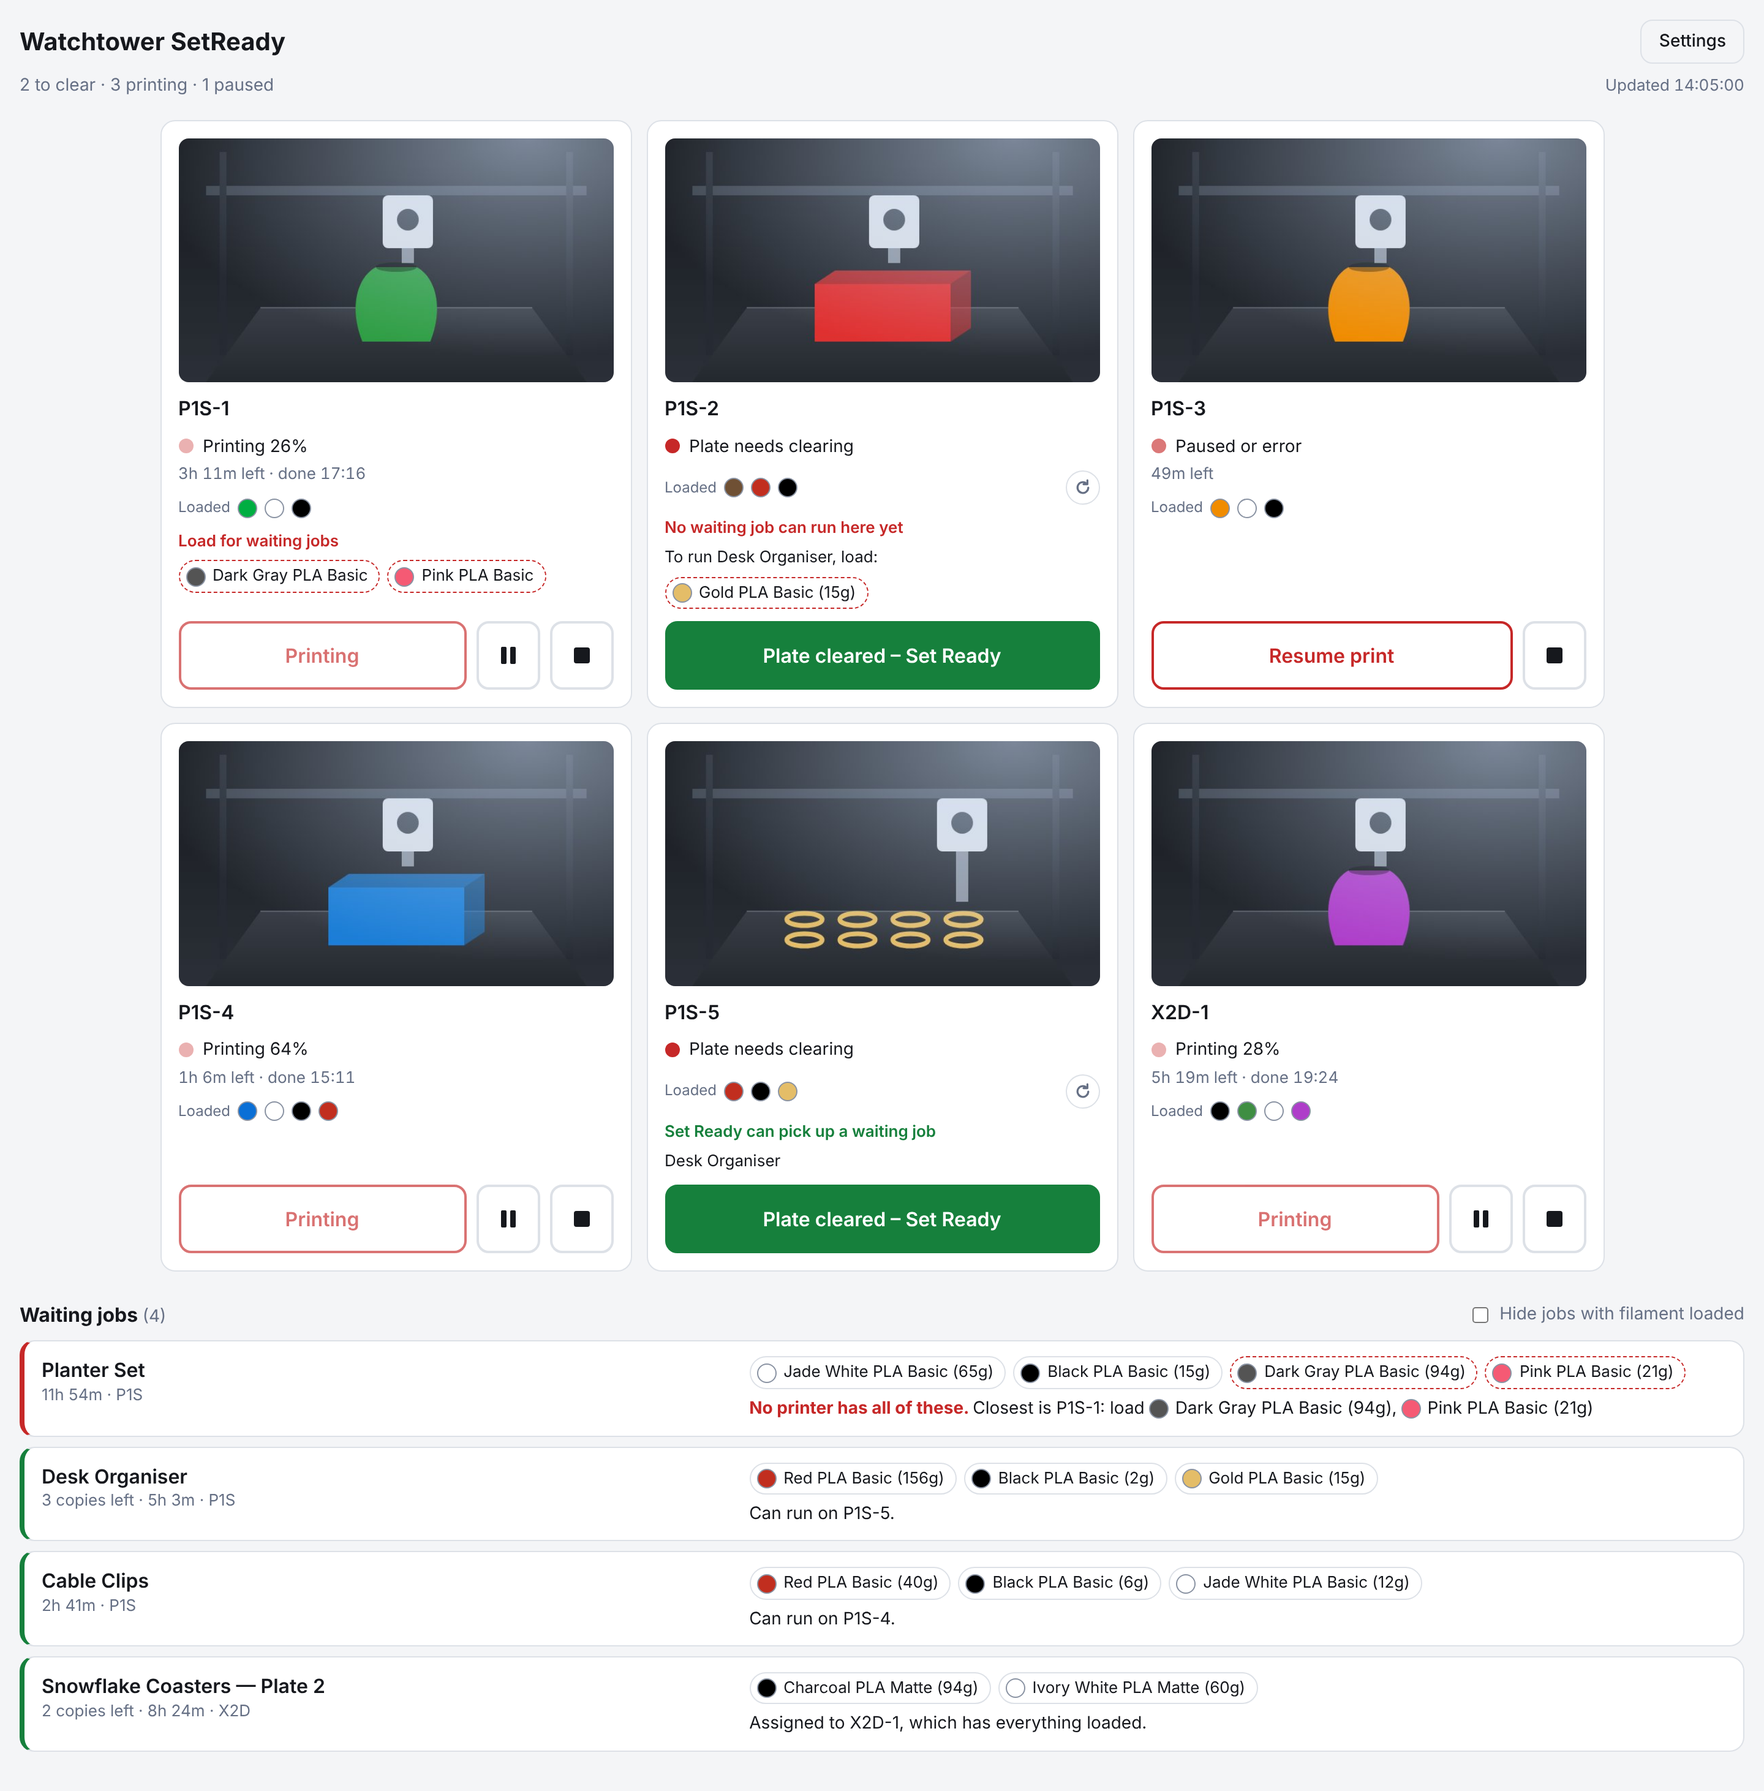
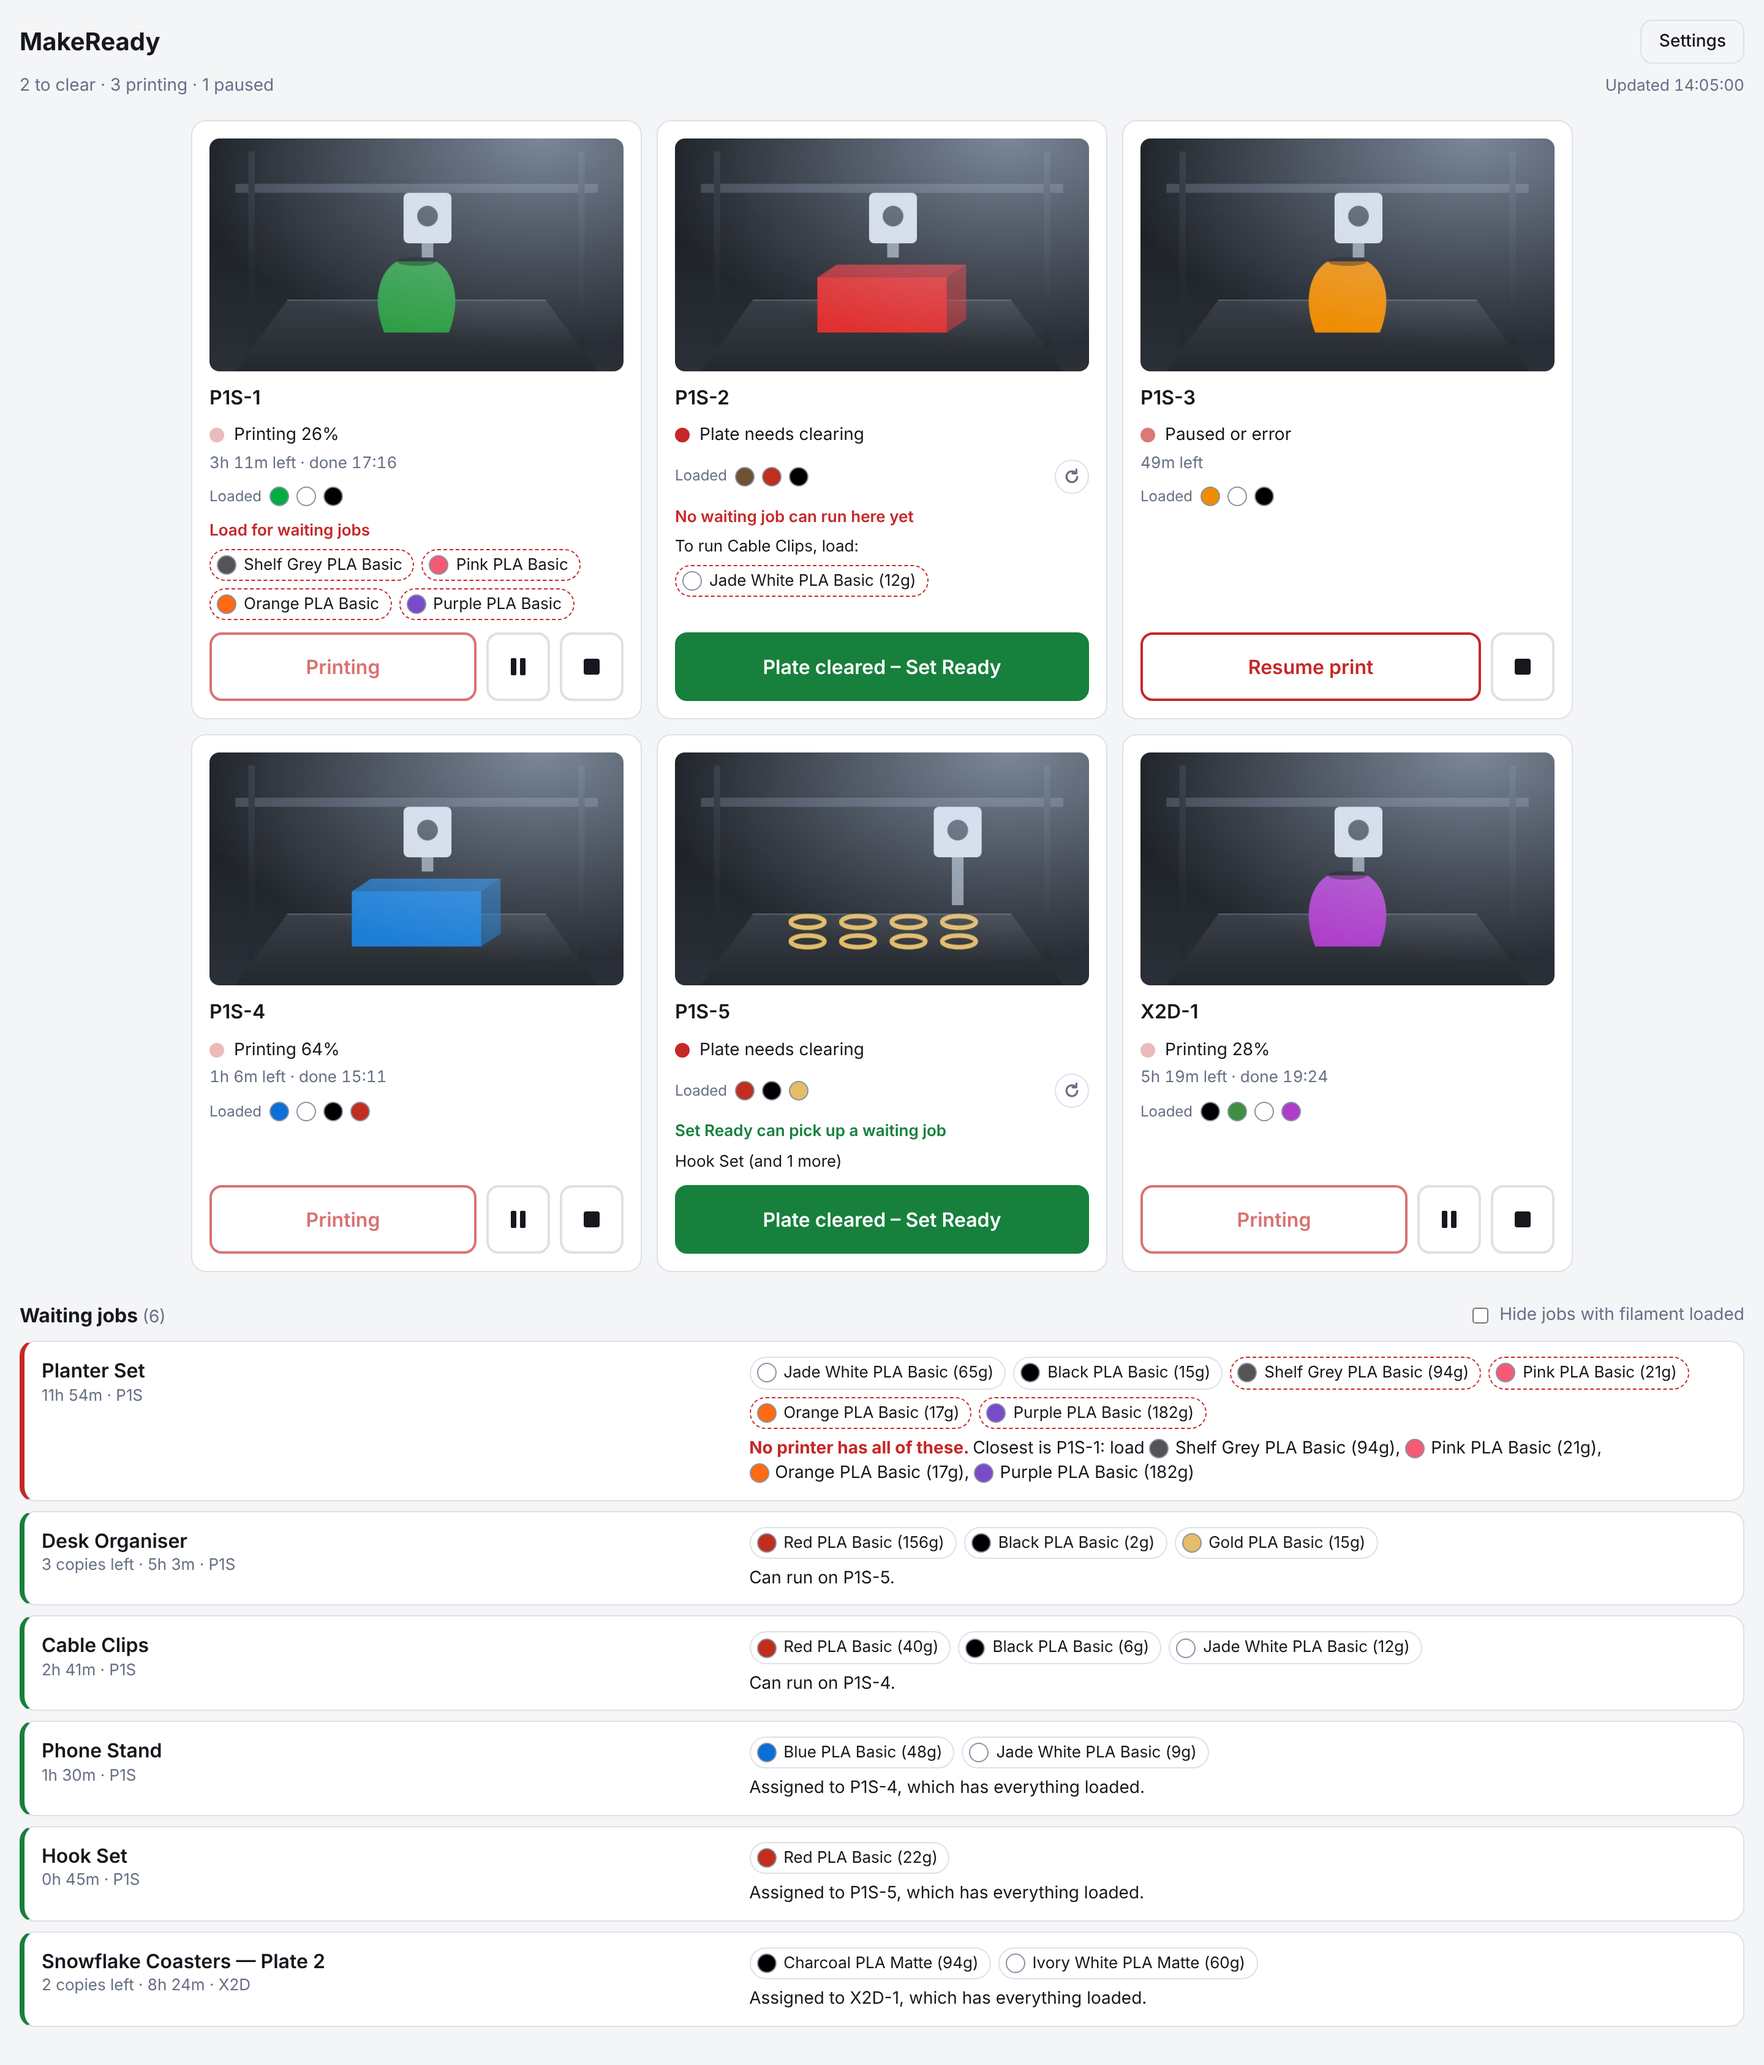
Rename the project to MakeReady in everything people read
Page title and heading, the displays' start-up and setup screens, the
board settings page, both READMEs and the mock-up pictures. Addresses
keep the old name until the repository is renamed (repository, Docker
image, firmware download), and so does the one saved-setting key on the
boards, so nothing stored is lost.

diff --git a/index.html b/index.html
@@ -1,10 +1,10 @@
 <!doctype html>
-<!-- Watchtower SetReady. Copyright (C) 2026 M4 Consulting Ltd. Licensed under the GNU GPL version 3; see LICENSE. -->
+<!-- MakeReady. Copyright (C) 2026 M4 Consulting Ltd. Licensed under the GNU GPL version 3; see LICENSE. -->
 <html lang="en">
 <head>
 <meta charset="utf-8">
 <meta name="viewport" content="width=device-width, initial-scale=1">
-<title>Watchtower SetReady</title>
+<title>MakeReady</title>
 <style>
   :root {
     --bg: #f4f5f7; --card: #fff; --text: #16181d; --muted: #667085; --line: #dde1e7;
@@ -170,7 +170,7 @@
 </head>
 <body>
 <header>
-  <h1>Watchtower SetReady</h1>
+  <h1>MakeReady</h1>
   <span id="summary"></span>
   <span id="updated"></span>
   <button type="button" id="open-settings" class="plain">Settings</button>
@@ -465,7 +465,7 @@ function render(printers) {
                        paused: 'paused', offline: 'offline' })
         .filter(([k]) => counts[k]).map(([k, t]) => counts[k] + ' ' + t).join(' · ')
     : '';
-  document.title = (counts.plate ? '(' + counts.plate + ') ' : '') + 'Watchtower SetReady';
+  document.title = (counts.plate ? '(' + counts.plate + ') ' : '') + 'MakeReady';
 }
 
 // ---- Page login: when a page password is set, the server answers 401 {login:true} until
@@ -505,7 +505,7 @@ document.getElementById('login-form').addEventListener('submit', async e => {
     camsAt = 0; queueAt = 0;
     refresh();
   } catch (ex) {
-    err.textContent = ex instanceof TypeError ? "Can't reach the SetReady server." : ex.message;
+    err.textContent = ex instanceof TypeError ? "Can't reach the MakeReady server." : ex.message;
   }
 });
 
@@ -529,7 +529,7 @@ async function refresh() {
     refreshQueue();
     document.getElementById('updated').textContent = 'Updated ' + new Date().toLocaleTimeString();
   } catch (e) {
-    banner.textContent = (e instanceof TypeError ? "Can't reach the SetReady server." : e.message) +
+    banner.textContent = (e instanceof TypeError ? "Can't reach the MakeReady server." : e.message) +
       ' Showing the last known state; buttons may be out of date.';
     banner.classList.add('show');
     if (grid.querySelector('.empty')) grid.querySelector('.empty').textContent = 'No printers loaded.';
@@ -620,7 +620,7 @@ async function send(name, action) {
     if (action === 'set-ready') pending.set(name, Date.now() + 15000);
     if (action === 'not-ready') pending.delete(name);
   } catch (e) {
-    errors.set(name, { state, text: e instanceof TypeError ? "Can't reach the SetReady server." : e.message });
+    errors.set(name, { state, text: e instanceof TypeError ? "Can't reach the MakeReady server." : e.message });
   }
   c.el.classList.remove('sending');
   render(lastPrinters);
@@ -928,7 +928,7 @@ async function reloadFilament(name) {
     if (!r.ok) failure = out.error || 'Could not re-read filament.';
     else note = out.note || '';                   // e.g. a slot skipped because it is loaded
   } catch (e) {
-    failure = "Can't reach the SetReady server.";
+    failure = "Can't reach the MakeReady server.";
   }
   clearInterval(tick);
   while (queueBusy) await new Promise(r => setTimeout(r, 100));     // let a running fetch finish
@@ -1051,7 +1051,7 @@ $('settings-form').addEventListener('submit', async e => {
     document.getElementById('summary').textContent = '';
     refresh();
   } catch (err) {
-    $('cfg-error').textContent = err instanceof TypeError ? "Can't reach the SetReady server." : err.message;
+    $('cfg-error').textContent = err instanceof TypeError ? "Can't reach the MakeReady server." : err.message;
   }
 });
 

diff --git a/display/settings-page.js b/display/settings-page.js
@@ -1,4 +1,4 @@
-// Settings page for a Watchtower SetReady printer display.
+// Settings page for a MakeReady printer display.
 //
 // The board serves this file as its own web page (see web_server in printer-display.yaml).
 // It talks to the board's built-in web API: live values arrive on /events, and changes are
@@ -105,14 +105,14 @@ function build() {
   <div class="offline" id="offline">Lost contact with the board. Trying again…</div>
 
   <section class="card">
-    <h2>SetReady connection</h2>
-    <label>SetReady page address
+    <h2>MakeReady connection</h2>
+    <label>MakeReady page address
       <input type="text" id="server" placeholder="192.168.1.10:8080" autocomplete="off" autocapitalize="none" spellcheck="false">
-      <small>Where the SetReady page runs, as in your browser's address bar. Not Watchtower's address.</small>
+      <small>Where the MakeReady page runs, as in your browser's address bar. Not Watchtower's address.</small>
     </label>
     <label>Display token
       <input type="password" id="token" placeholder="Leave blank to keep the current token" autocomplete="off">
-      <small>From the SetReady page: Settings → Printer displays → Create token.</small>
+      <small>From the MakeReady page: Settings → Printer displays → Create token.</small>
     </label>
     <div class="btns"><button class="primary" id="save">Save and restart</button></div>
     <p class="note" id="save-note"></p>
@@ -167,7 +167,7 @@ function build() {
   $('save').addEventListener('click', async () => {
     const note = $('save-note');
     const server = $('server').value.trim(), token = $('token').value.trim();
-    if (!server) { note.className = 'note bad'; note.textContent = 'Enter the SetReady page address.'; return; }
+    if (!server) { note.className = 'note bad'; note.textContent = 'Enter the MakeReady page address.'; return; }
     $('save').disabled = true;
     note.className = 'note'; note.textContent = 'Saving…';
     try {

diff --git a/server.py b/server.py
@@ -1,5 +1,5 @@
 #!/usr/bin/env python3
-"""Watchtower SetReady: virtual "Set Ready" buttons for a Watchtower printer farm.
+"""MakeReady: virtual "Set Ready" buttons for a Watchtower printer farm.
 
 Serves index.html and forwards a short fixed list of calls to Watchtower's public API, so the
 API key stays on this machine and the browser has no CORS or certificate problems:
@@ -1276,7 +1276,7 @@ COMMANDS = {"set-ready": {"command": "set_ready"},
 
 
 class Handler(BaseHTTPRequestHandler):
-    server_version = "WatchtowerSetReady/1.0"
+    server_version = "MakeReady/1.0"
 
     def send(self, status, body, ctype="application/json", retry_after=None, cookie=None):
         self.send_response(status)
@@ -1451,7 +1451,7 @@ class Handler(BaseHTTPRequestHandler):
 def main():
     host = str(CFG.get("HOST", "127.0.0.1"))
     port = int(CFG.get("PORT", 8080))
-    print("Watchtower SetReady on http://%s:%d  ->  %s"
+    print("MakeReady on http://%s:%d  ->  %s"
           % (host, port, base_url() or "(not set up: open the page and use Settings)"))
     if not auth_required() and host not in ("127.0.0.1", "localhost", "::1"):
         print("WARNING: no page password is set, so anyone who can reach this address can "

diff --git a/display/README.md b/display/README.md
@@ -17,7 +17,7 @@ steps and the printer screen work. The touch button has not been tried yet.
   display, but the Set Ready button can't be pressed.
 - A micro-USB **data** cable and a computer with Chrome or Edge, for the one-off flash.
 - A phone, for the setup steps.
-- The SetReady server reachable from your Wi-Fi (2.4 GHz), with the Watchtower login set
+- The MakeReady server reachable from your Wi-Fi (2.4 GHz), with the Watchtower login set
   in Settings if you want the filament advice.
 
 Every board runs the same firmware. Nothing is edited per printer; each board is told
@@ -56,10 +56,10 @@ bottom). Once joined, a page opens by itself; if it doesn't, browse to
 Put your phone back on your normal Wi-Fi and scan it to open the board's settings page
 (its address is also shown at the bottom). Fill in:
 
-- **SetReady page address:** where the SetReady page runs (what is in your browser's
+- **MakeReady page address:** where the MakeReady page runs (what is in your browser's
   address bar when you open it), e.g. `192.168.2.2:8080`. Not Watchtower's address.
   `http://` is added for you.
-- **Display token:** on the SetReady page, open **Settings → Printer displays**, choose
+- **Display token:** on the MakeReady page, open **Settings → Printer displays**, choose
   the printer this board is for, press **Create token**, and paste it here.
 
 Then press **Save and restart**. The board restarts and shows the printer within a few
@@ -94,9 +94,9 @@ its screen type. The **Firmware** section of its page shows the result, with an
 only works if the board can reach the internet (github.com). A board flashed before
 this feature existed has to be updated by USB once more.
 
-**Do updates keep the settings?** Yes: the Wi-Fi, SetReady address, token and screen
+**Do updates keep the settings?** Yes: the Wi-Fi, MakeReady address, token and screen
 options stay on the board through an update. (One exception has already happened: the
-update that renamed the address field to "SetReady page address" lost the saved
+update that renamed the address field to "MakeReady page address" lost the saved
 address, which has to be typed in once more. The settings keep their internal names
 from now on, so this won't recur.)
 
@@ -132,7 +132,7 @@ only making one.
   second; it turns brighter while held, then sends. A brush against the screen does nothing.
 - **Hold: Not ready:** an outlined button on a ready printer, until a job is sent to it.
   Hold it for a second to take a Set Ready back (needs the Watchtower login in the
-  SetReady page's Settings).
+  MakeReady page's Settings).
 
 ### Dimming
 
@@ -172,7 +172,7 @@ It asks the server every 10 seconds.
 |---|---|
 | Stuck on "Setup: step 1 of 2" | Wrong Wi-Fi password, or a 5 GHz-only network; join the board's network again and re-enter |
 | "Can't reach server" | Wrong server address or port (it is shown underneath), or the server isn't reachable from Wi-Fi |
-| "Not a SetReady server" | The address is something else, most often Watchtower itself; enter the SetReady page's address and port |
+| "Not a MakeReady server" | The address is something else, most often Watchtower itself; enter the MakeReady page's address and port |
 | "Token not accepted" | Token mistyped, or revoked in Settings; create a new one and enter it on the board's page |
 | "Not found in Watchtower" | The printer was renamed; create a new token |
 | Scrambled picture, or inverted colours | The firmware is for a different screen type; see below |

diff --git a/README.md b/README.md
@@ -1,7 +1,11 @@
-# Watchtower-SetReady
+# MakeReady
 
 Gets each printer in a [Watchtower](https://watchtower3d.com) 3D-printer farm **ready
 for its next job**, so Watchtower can send it one.
+
+"Makeready" is the commercial printers' word for everything done to a press between one
+job and the next. (This project was called Watchtower-SetReady until November 2026; the
+repository, Docker image and download addresses still use that name.)
 
 Watchtower runs the queue: it decides which job goes to which printer and sends it.
 It can only do that once a printer has been cleared and marked ready, and has the
@@ -148,7 +152,7 @@ Confirmations, so a stray touch on a wall tablet can't move a machine or lose a 
 If Watchtower refuses a command, the reason appears under the button.
 
 The page refreshes every 5 seconds. The browser tab title shows how many plates are
-waiting, e.g. `(2) Watchtower SetReady`.
+waiting, e.g. `(2) MakeReady`.
 
 ### Cameras
 
@@ -259,8 +263,8 @@ No software to install and nothing to edit; every board runs the same firmware.
 2. **Scan the QR code** on the screen with a phone to join the board's own Wi-Fi, and
    choose your network.
 3. **Create a token** for the printer under **Settings → Printer displays** on the
-   SetReady page.
-4. **Scan the second QR code** to open the board's settings page, enter the SetReady
+   MakeReady page.
+4. **Scan the second QR code** to open the board's settings page, enter the MakeReady
    address and the token, and press **Save and restart**.
 
 Each board has its own settings page on your network, where you can also:
@@ -273,7 +277,7 @@ Each board has its own settings page on your network, where you can also:
 - turn the picture upside down, for mounting either way round;
 - dim the screen.
 
-<img src="docs/display-settings.png" alt="The board's settings page on a phone: sections for the SetReady connection, screen, Wi-Fi and firmware" width="300">
+<img src="docs/display-settings.png" alt="The board's settings page on a phone: sections for the MakeReady connection, screen, Wi-Fi and firmware" width="300">
 
 *Mock-up of a board's settings page.*
 
@@ -307,7 +311,7 @@ this as `/etc/systemd/system/watchtower-setready.service` (adjust the folder and
 
 ```ini
 [Unit]
-Description=Watchtower SetReady
+Description=MakeReady
 After=network-online.target
 Wants=network-online.target
 
